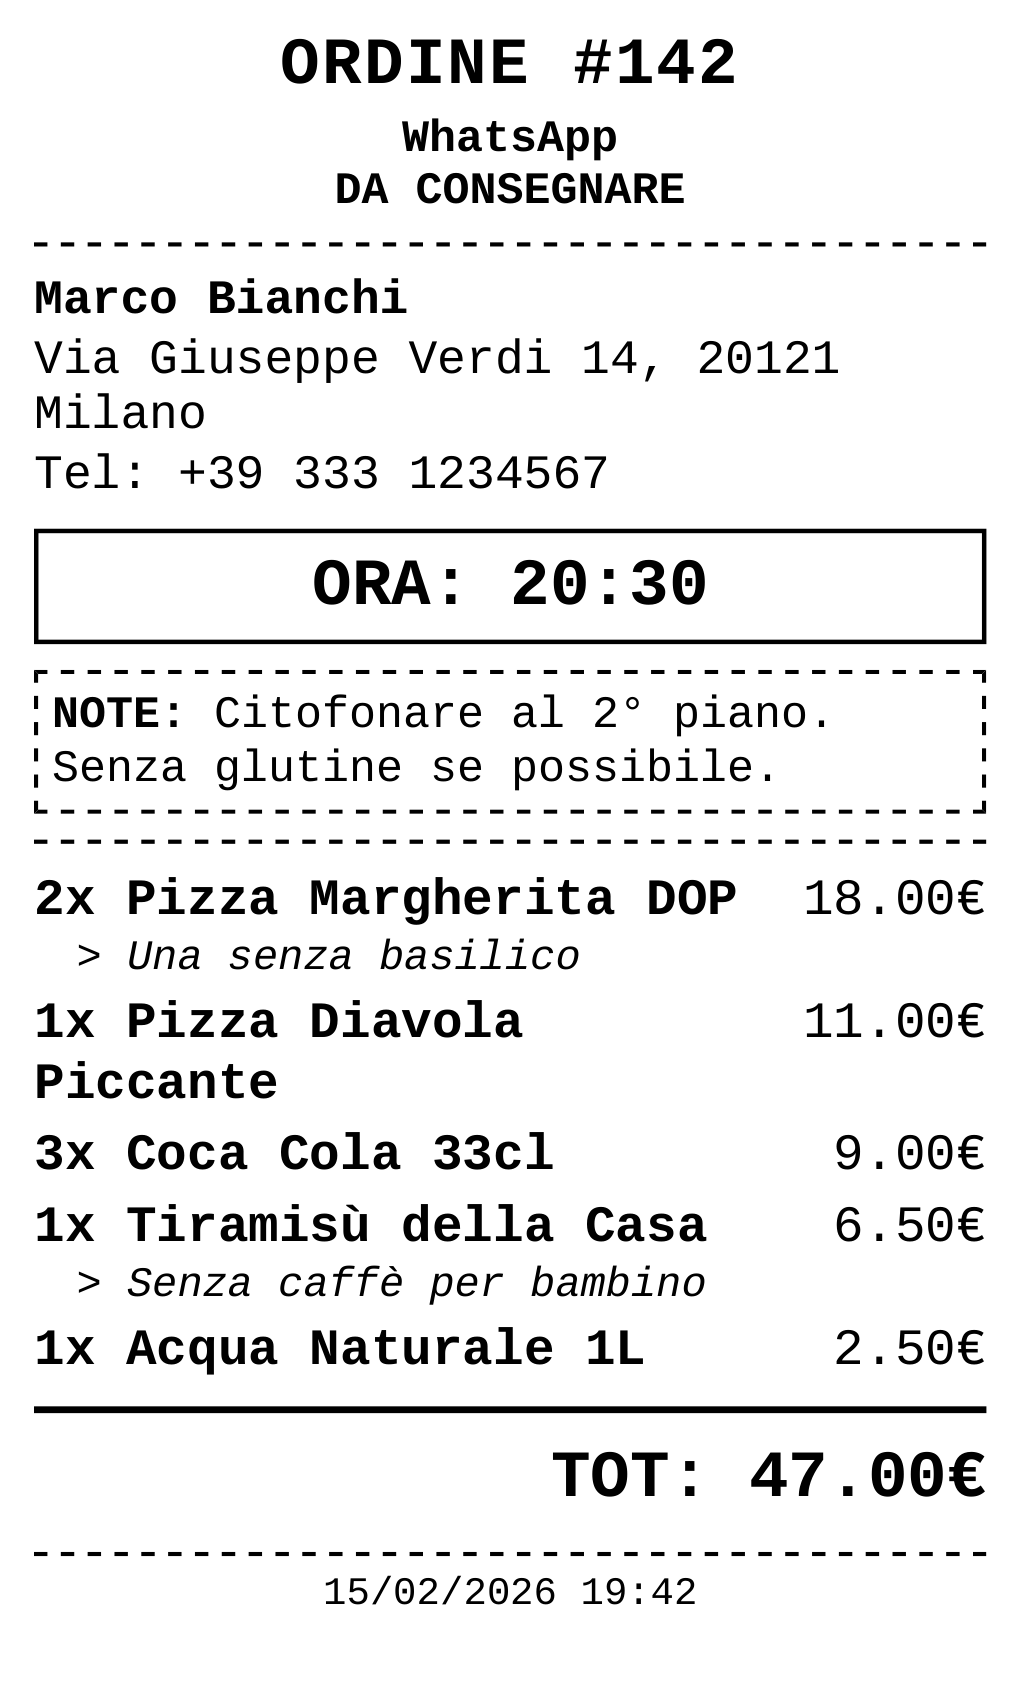
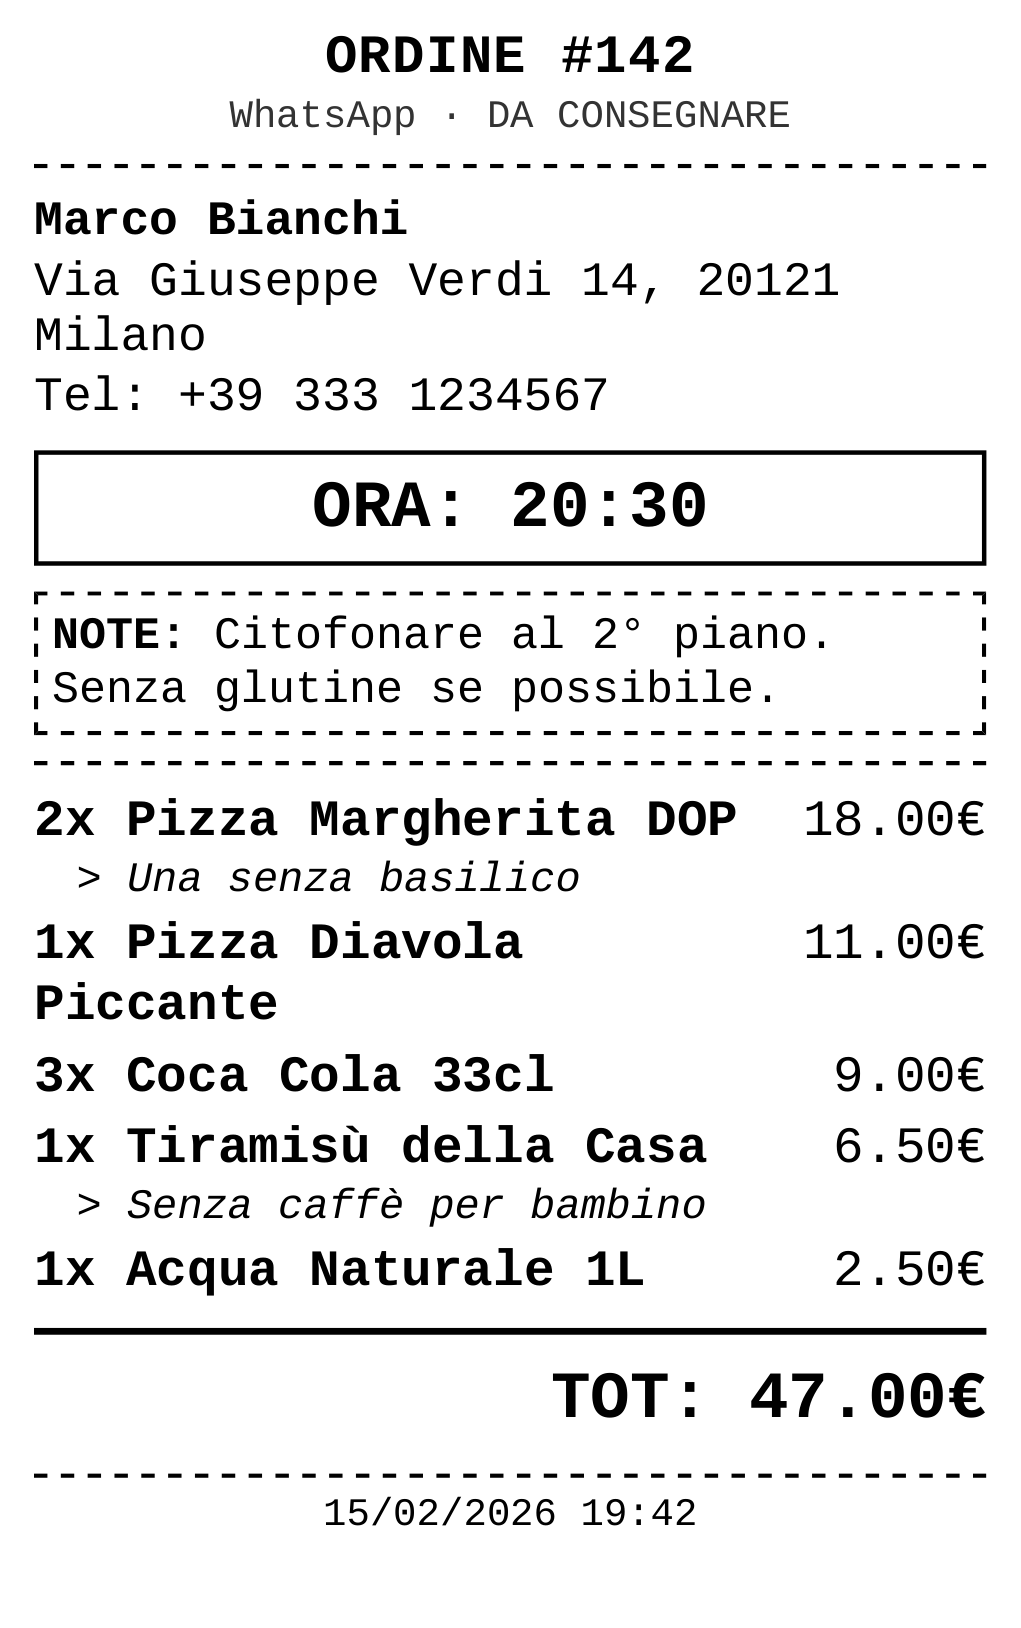
auto-commit for 294ab2fe-4b13-46e1-a762-8dc00e84e2ac

diff --git a/frontend/app/(tabs)/index.tsx b/frontend/app/(tabs)/index.tsx
@@ -333,16 +333,17 @@ export default function OrdersScreen() {
             .hr     { border: 0; border-top: 1px dashed #000; margin: 1.5mm 0; }
             .double { border: 0; border-top: 1.5px solid #000; margin: 1.5mm 0; }
             h1 {
-              font-size: 11pt;
+              font-size: 9pt;
               text-align: center;
-              margin: 0 0 0.5mm 0;
-              letter-spacing: 0.5px;
+              margin: 0 0 0.3mm 0;
+              letter-spacing: 0.3px;
             }
             .subtitle {
               text-align: center;
-              font-size: 7.5pt;
+              font-size: 6.5pt;
               margin: 0 0 0.5mm 0;
-              line-height: 1.15;
+              line-height: 1.1;
+              color: #333;
             }
             .info p {
               margin: 0.3mm 0;
@@ -408,9 +409,8 @@ export default function OrdersScreen() {
         </head>
         <body>
           <h1>ORDINE #${order.orderNumber}</h1>
-          <p class="subtitle bold">
-            ${CHANNELS.find(c => c.id === order.channel)?.label || 'Persona'}<br/>
-            ${order.serviceType === 'da_consegnare' ? 'DA CONSEGNARE' : 
+          <p class="subtitle">
+            ${CHANNELS.find(c => c.id === order.channel)?.label || 'Persona'} · ${order.serviceType === 'da_consegnare' ? 'DA CONSEGNARE' : 
               order.serviceType === 'da_ritirare' ? 'DA RITIRARE' : 'IN SEDE'}
           </p>
           <hr class="hr" />

diff --git a/scripts/preview_output/thermal_62mm_preview.html b/scripts/preview_output/thermal_62mm_preview.html
@@ -30,16 +30,17 @@
       .hr     { border: 0; border-top: 1px dashed #000; margin: 1.5mm 0; }
       .double { border: 0; border-top: 1.5px solid #000; margin: 1.5mm 0; }
       h1 {
-        font-size: 11pt;
+        font-size: 9pt;
         text-align: center;
-        margin: 0 0 0.5mm 0;
-        letter-spacing: 0.5px;
+        margin: 0 0 0.3mm 0;
+        letter-spacing: 0.3px;
       }
       .subtitle {
         text-align: center;
-        font-size: 7.5pt;
+        font-size: 6.5pt;
         margin: 0 0 0.5mm 0;
-        line-height: 1.15;
+        line-height: 1.1;
+        color: #333;
       }
       .info p {
         margin: 0.3mm 0;
@@ -101,9 +102,8 @@
   </head>
   <body>
     <h1>ORDINE #142</h1>
-    <p class="subtitle bold">
-      WhatsApp<br/>
-      DA CONSEGNARE
+    <p class="subtitle">
+      WhatsApp · DA CONSEGNARE
     </p>
     <hr class="hr" />
 

diff --git a/scripts/generate_print_preview.py b/scripts/generate_print_preview.py
@@ -91,16 +91,17 @@ html_content = f"""
       .hr     {{ border: 0; border-top: 1px dashed #000; margin: 1.5mm 0; }}
       .double {{ border: 0; border-top: 1.5px solid #000; margin: 1.5mm 0; }}
       h1 {{
-        font-size: 11pt;
+        font-size: 9pt;
         text-align: center;
-        margin: 0 0 0.5mm 0;
-        letter-spacing: 0.5px;
+        margin: 0 0 0.3mm 0;
+        letter-spacing: 0.3px;
       }}
       .subtitle {{
         text-align: center;
-        font-size: 7.5pt;
+        font-size: 6.5pt;
         margin: 0 0 0.5mm 0;
-        line-height: 1.15;
+        line-height: 1.1;
+        color: #333;
       }}
       .info p {{
         margin: 0.3mm 0;
@@ -162,9 +163,8 @@ html_content = f"""
   </head>
   <body>
     <h1>ORDINE #{order['orderNumber']}</h1>
-    <p class="subtitle bold">
-      {CHANNELS.get(order['channel'], 'Persona')}<br/>
-      {service_label}
+    <p class="subtitle">
+      {CHANNELS.get(order['channel'], 'Persona')} · {service_label}
     </p>
     <hr class="hr" />
 
